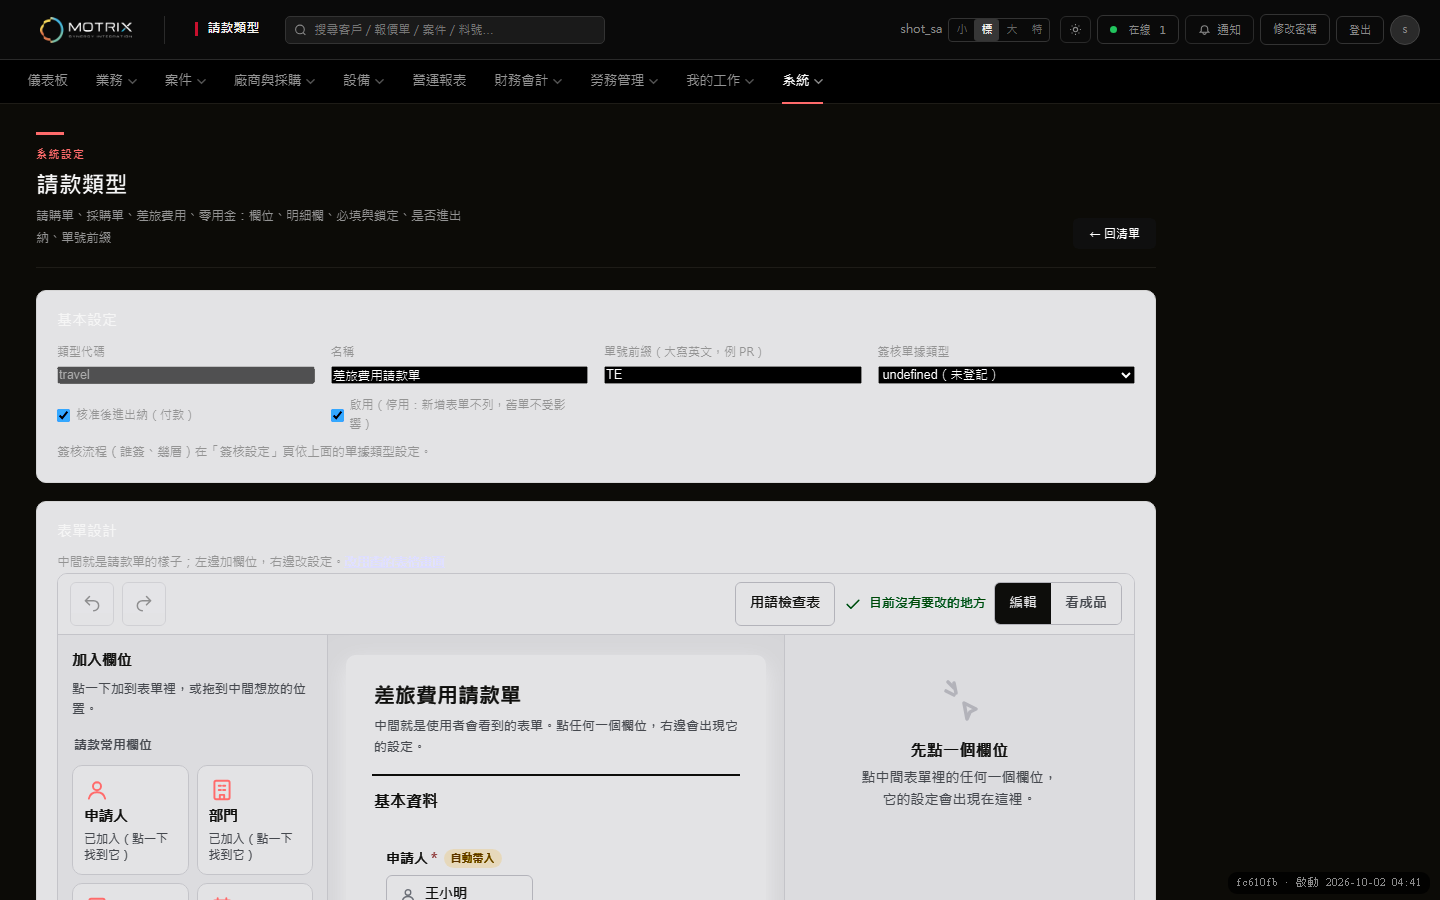
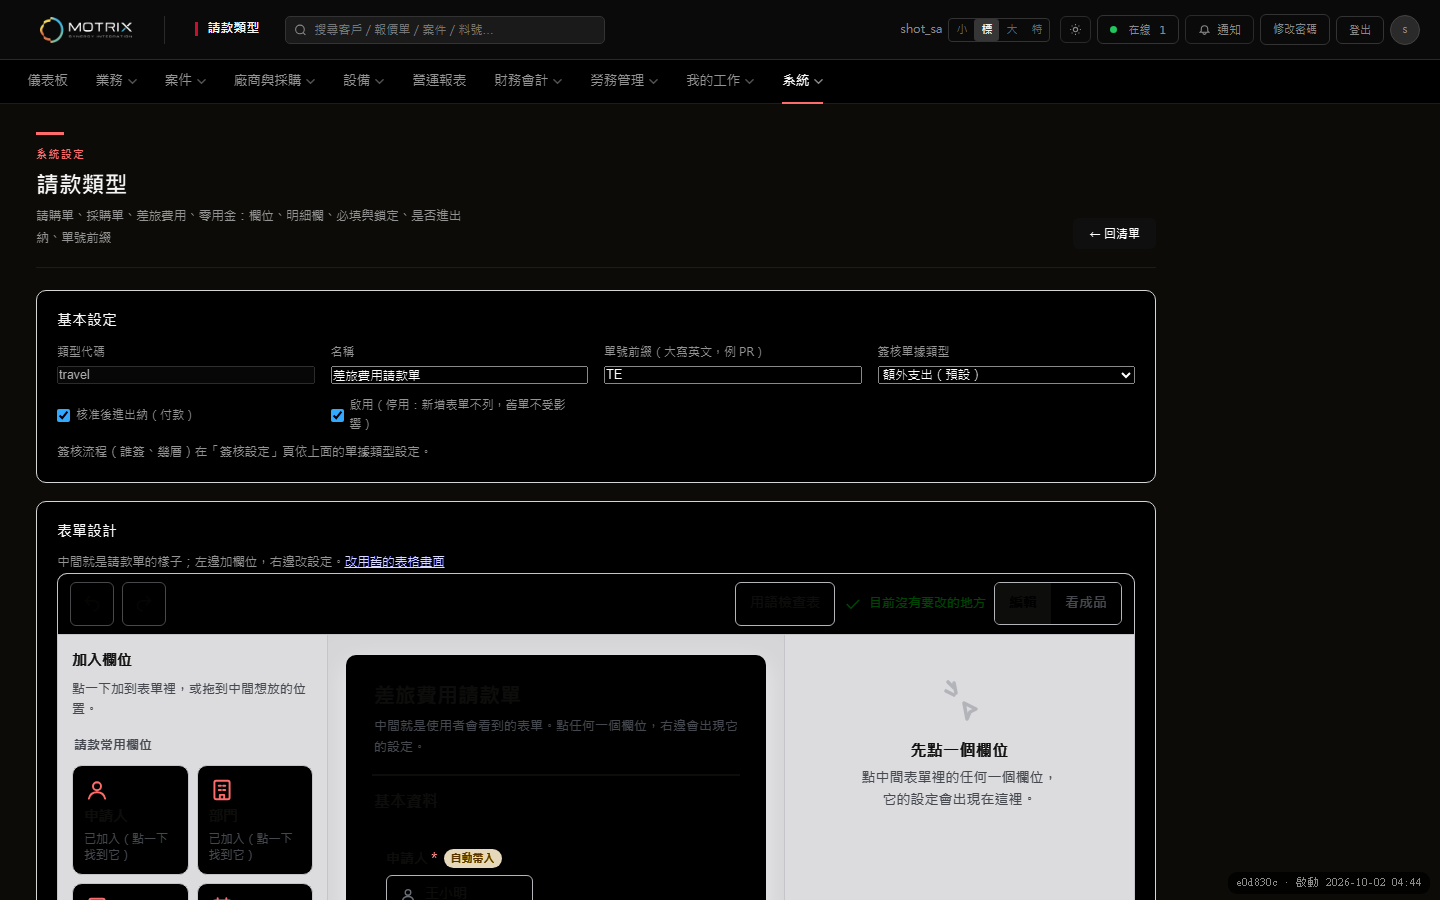
fix(請款類型頁): docType 缺值顯示「額外支出（預設）」不寫回；深色主題面板改用淺色 token 讓濾鏡正確反轉；截圖重拍；e2e +1

diff --git a/frontend/pages/expense-types.html b/frontend/pages/expense-types.html
@@ -46,6 +46,10 @@
     .et-keys { display: flex; flex-wrap: wrap; gap: 4px 14px; margin-top: 6px; font-size: 12.5px; }
     .et-keys label { display: flex; align-items: center; gap: 4px; }
     #et-preview { margin-top: 10px; min-height: 40px; }
+    /* 深色主題＝整頁 invert 濾鏡（style.css）：頁面要用「淺色版」token，濾鏡才會把它反轉成深色；
+       :root[data-theme=dark] 的深色 token 只給不經濾鏡的頁面用，直接用會被反轉成淺底（面板標題與底色對比不足）。 */
+    :root[data-theme="dark"] .et-main { --surface: #FFFFFF; --tone-danger-fg: #B91C1C; --tone-danger-bg: #FEF2F2; --tone-danger-border: #FECACA;
+      --tone-info-fg: #1D4ED8; --tone-info-bg: #EEF2FF; --tone-info-border: #BFDBFE; }
     @media (max-width: 720px) { .et-main { margin-left: 0; padding: 20px 16px 60px; } }
   </style>
 </head>
@@ -109,10 +113,11 @@
                 <input type="text" data-testid="et-prefix" x-model="body.numbering.prefix" maxlength="4" @input="body.numbering.prefix = body.numbering.prefix.toUpperCase()">
               </label>
               <label>簽核單據類型
-                <select data-testid="et-doctype" x-model="body.docType">
-                  <option value="">（請選擇）</option>
-                  <template x-for="d in docTypes" :key="d.code"><option :value="d.code" x-text="d.label + '（' + d.code + '）'"></option></template>
-                  <option x-show="body.docType && !docTypes.some(d => d.code===body.docType)" :value="body.docType" x-text="body.docType + '（未登記）'"></option>
+                <select data-testid="et-doctype" @change="body.docType = $event.target.value === '__default' ? undefined : $event.target.value">
+                  <template x-if="body.docType === undefined"><option value="__default" selected>額外支出（預設）</option></template>
+                  <option value="" :selected="body.docType === ''">（請選擇）</option>
+                  <template x-for="d in docTypes" :key="d.code"><option :value="d.code" :selected="body.docType === d.code" x-text="d.label + '（' + d.code + '）'"></option></template>
+                  <option x-show="body.docType && !docTypes.some(d => d.code===body.docType)" :value="body.docType" selected x-text="body.docType + '（未登記）'"></option>
                 </select>
               </label>
               <label class="et-chk"><input type="checkbox" data-testid="et-payable" x-model="body.payable"> 核准後進出納（付款）</label>

diff --git a/backend/tests/test_e2e_expense_types_designer_2026_10_02.py b/backend/tests/test_e2e_expense_types_designer_2026_10_02.py
@@ -150,3 +150,17 @@ def test_designer_clicking_a_problem_selects_that_field(live_server, make_user, 
     key = page.evaluate("() => Alpine.$data(document.body).body.fields[1].key")
     page.click("[data-testid=et-problems] li")
     page.wait_for_selector('.fd-center .fd-fld.is-sel[data-key="%s"]' % key, timeout=5000)
+
+
+@pytest.mark.e2e
+def test_doctype_select_shows_the_default_for_a_definition_without_docType_and_does_not_write_it_back(live_server, make_user, e2e_browser):
+    u = make_user(username="etd_dt", role="superadmin", modules=[])
+    page = _open(e2e_browser, live_server, u, query="")
+    page.click("[data-testid=et-open-travel]")
+    page.wait_for_selector("[data-testid=et-edit]", timeout=20000)
+    shown = page.evaluate("() => { const s = document.querySelector('[data-testid=et-doctype]'); return s.options[s.selectedIndex].text }")
+    assert "undefined" not in shown and "額外支出" in shown, shown
+    assert page.evaluate("() => Alpine.$data(document.body).body.docType") is None            # 沒有寫回定義
+    opts = page.eval_on_selector_all("[data-testid=et-doctype] option", "els => els.map(e => e.value).filter(v => v && v !== '__default')")
+    page.select_option("[data-testid=et-doctype]", opts[0])
+    assert page.evaluate("() => Alpine.$data(document.body).body.docType") == opts[0]         # 使用者選了才寫入

diff --git a/docs/platform/plans/expense-types-designer-shots/README.md b/docs/platform/plans/expense-types-designer-shots/README.md
@@ -5,7 +5,7 @@
 
 預設仍是舊畫面。要看新畫面：網址加 `?designer=1`，或在舊畫面按「改用新的設計畫面」；新畫面內有「改用舊的表格畫面」。
 
-## 截圖裡看到、不是這次改的
-1. 「簽核單據類型」下拉顯示「undefined（未登記）」：四個預設類型的定義檔沒有 `docType`（伺服器視同 `extra_expense`），頁面的下拉不認得缺值。舊畫面同樣。
-2. 預設「申請人」欄的說明文字寫著「超級管理員可在定義中把 locked 改成 false…」——是預設定義裡的 `help` 文字，會原樣顯示在新畫面的表單上（含工程用語）；建議改寫成白話。
-3. 深色主題下「基本設定」等面板標題與背景對比偏低，是這一頁原本的面板樣式（舊畫面同樣）。
+## 截圖裡看到、不是新設計器的問題
+1. （已修，e0d830c1 之後）「簽核單據類型」下拉原本顯示「undefined（未登記）」；定義沒有 `docType` 時現在顯示「額外支出（預設）」，且不寫回定義（使用者選了才寫入）。
+2. 預設「申請人」欄的說明文字寫著「超級管理員可在定義中把 locked 改成 false…」——是出貨預設定義裡的 `help` 文字，會原樣顯示在新畫面的表單上（含工程用語）。改它會動 def_version，列入第 31 班待辦，待措辭裁示。
+3. （已修）深色主題下面板被濾鏡反轉成淺底、標題對比不足：頁面改用淺色版 token 讓整頁濾鏡正確反轉；本檔截圖已重拍。
